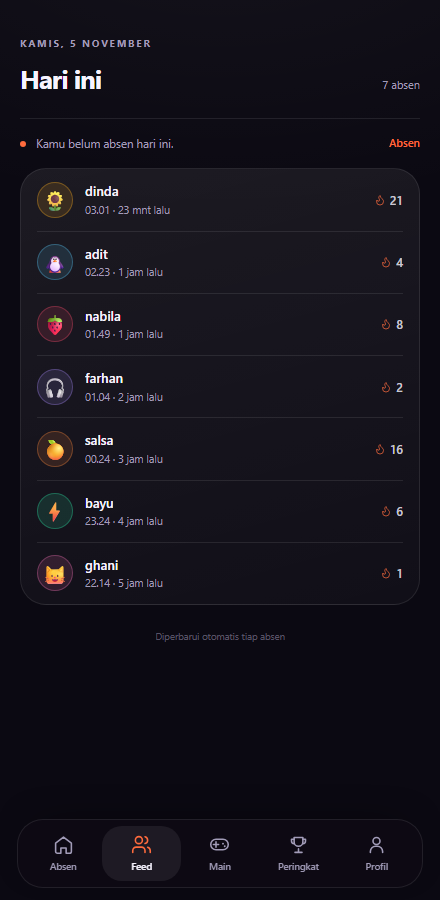
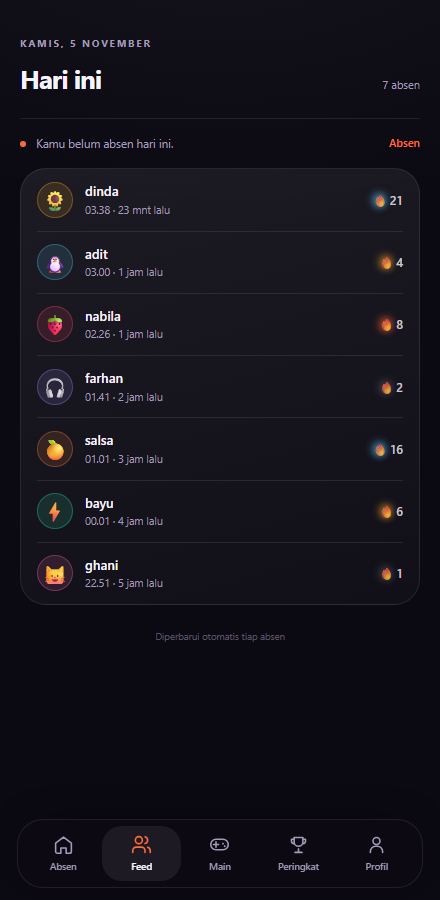
Tingkatan Api Streak

diff --git a/app/page.tsx b/app/page.tsx
@@ -11,12 +11,13 @@ import {
   ArrowUpIcon,
   BellIcon,
   CheckIcon,
-  FlameIcon,
   LockIcon,
   MapPinIcon,
   SnowflakeIcon,
 } from "@/components/Icons";
 import { checkedInToday, todayCheckIns, useStore } from "@/lib/store";
+import { nextFlameTier } from "@/lib/flame";
+import { StreakFlame } from "@/components/StreakFlame";
 import {
   applyCheckIn,
   broadcastBody,
@@ -145,6 +146,7 @@ function Home() {
 
   const streak = state.streak;
   const freezes = effectiveFreezes(streak, today);
+  const nextTier = nextFlameTier(streak.current);
 
   const buttonState: "submitting" | "done" | "locked" | "ready" = submitting
     ? "submitting"
@@ -361,9 +363,7 @@ function Home() {
               </div>
             </div>
             <div className="flex flex-col items-end gap-2">
-              <span className="flicker text-[34px]" aria-hidden="true">
-                🔥
-              </span>
+              <StreakFlame streak={streak.current} size={34} />
               <div className="flex gap-1.5" aria-label="Sisa freeze bulan ini">
                 {[0, 1].map((i) => (
                   <SnowflakeIcon
@@ -375,6 +375,13 @@ function Home() {
                 ))}
               </div>
             </div>
+          </div>
+
+          <div className="mt-4 flex items-center justify-between rounded-[12px] border border-line px-3 py-2">
+            <StreakFlame streak={streak.current} size={14} withLabel />
+            <span className="text-[10px] text-muted">
+              {nextTier ? `naik di ${nextTier.min} hari` : "tingkat tertinggi"}
+            </span>
           </div>
 
           <div className="mt-4 flex items-center justify-between border-t border-white/[0.06] pt-3 text-[11px]">
@@ -459,8 +466,8 @@ function Home() {
           <Confetti count={28} />
           <div className="rise w-full max-w-[330px] rounded-[22px] border border-line bg-panel p-6">
             <div className="flex items-center gap-3">
-              <span className="grid h-9 w-9 place-items-center rounded-full bg-flame/12 text-flame">
-                <FlameIcon className="h-4 w-4" />
+              <span className="grid h-9 w-9 place-items-center rounded-full bg-flame/12">
+                <StreakFlame streak={success.streak} size={16} />
               </span>
               <p className="eyebrow">Absen berhasil</p>
             </div>

diff --git a/components/StreakFlame.tsx b/components/StreakFlame.tsx
@@ -1,0 +1,48 @@
+import { flameTier } from "@/lib/flame";
+
+/**
+ * Api streak — tampil sama seperti di profil, dengan glow sesuai tingkatan.
+ * Semakin tinggi streak, semakin terang warnanya.
+ */
+export function StreakFlame({
+  streak,
+  size = 16,
+  withLabel = false,
+}: {
+  streak: number;
+  size?: number;
+  withLabel?: boolean;
+}) {
+  const tier = flameTier(streak);
+
+  return (
+    <span
+      className="inline-flex items-center gap-1.5"
+      title={tier.name}
+      aria-label={tier.name}
+    >
+      <span
+        className="relative inline-grid place-items-center"
+        style={{ width: size * 1.15, height: size * 1.15 }}
+      >
+        <span
+          aria-hidden="true"
+          className="absolute inset-0 rounded-full"
+          style={{ background: tier.glow, filter: `blur(${Math.max(3, size / 3)}px)` }}
+        />
+        <span
+          className="relative leading-none"
+          style={{ fontSize: size, filter: `drop-shadow(0 0 ${size / 4}px ${tier.glow})` }}
+          aria-hidden="true"
+        >
+          🔥
+        </span>
+      </span>
+      {withLabel && (
+        <span className="text-[10px] font-semibold" style={{ color: tier.color }}>
+          {tier.name}
+        </span>
+      )}
+    </span>
+  );
+}

diff --git a/app/profile/page.tsx b/app/profile/page.tsx
@@ -5,10 +5,10 @@ import { useRouter } from "next/navigation";
 import { Guard } from "@/components/Guard";
 import { BottomNav } from "@/components/BottomNav";
 import { Avatar } from "@/components/Avatar";
+import { StreakFlame } from "@/components/StreakFlame";
 import {
   BellIcon,
   CheckIcon,
-  FlameIcon,
   RotateIcon,
   SnowflakeIcon,
 } from "@/components/Icons";
@@ -161,7 +161,7 @@ function Profile() {
           </h1>
           <p className="text-[11.5px] text-muted">{user.email}</p>
           <div className="mt-4 flex items-center gap-1.5 rounded-full bg-flame/12 px-3 py-1.5 text-[11.5px] font-bold text-flame">
-            <FlameIcon className="h-3.5 w-3.5" />
+            <StreakFlame streak={state.streak.current} size={14} />
             {state.streak.current} hari berturut-turut
           </div>
         </header>
@@ -340,7 +340,7 @@ function Profile() {
         </section>
 
         <p className="mt-8 flex items-center justify-center gap-1.5 text-[9.5px] text-muted/50">
-          <FlameIcon className="h-3 w-3" />
+          <span className="text-[10px]">??</span>
           Ngariung v0.2 · data lokal
         </p>
       </main>

diff --git a/lib/flame.ts b/lib/flame.ts
@@ -1,0 +1,29 @@
+export type FlameTier = {
+  min: number;
+  name: string;
+  color: string;
+  glow: string;
+};
+
+/** Tingkatan api berdasarkan streak harian. */
+export const FLAME_TIERS: FlameTier[] = [
+  { min: 0, name: "Api Kecil", color: "#8A8A93", glow: "rgba(138,138,147,0.30)" },
+  { min: 3, name: "Api Menyala", color: "#FFB43D", glow: "rgba(255,180,61,0.50)" },
+  { min: 7, name: "Api Panas", color: "#FF6B3D", glow: "rgba(255,107,61,0.55)" },
+  { min: 14, name: "Api Biru", color: "#5AC8FA", glow: "rgba(90,200,250,0.55)" },
+  { min: 30, name: "Api Ungu", color: "#A78BFA", glow: "rgba(167,139,250,0.55)" },
+  { min: 60, name: "Api Putih", color: "#F5F5F7", glow: "rgba(245,245,247,0.65)" },
+  { min: 100, name: "Api Dewa", color: "#FFD166", glow: "rgba(255,209,102,0.75)" },
+];
+
+export function flameTier(streak: number): FlameTier {
+  let current = FLAME_TIERS[0];
+  for (const tier of FLAME_TIERS) {
+    if (streak >= tier.min) current = tier;
+  }
+  return current;
+}
+
+export function nextFlameTier(streak: number): FlameTier | null {
+  return FLAME_TIERS.find((t) => t.min > streak) ?? null;
+}

diff --git a/app/leaderboard/page.tsx b/app/leaderboard/page.tsx
@@ -4,7 +4,7 @@ import { useMemo, useState } from "react";
 import { Guard } from "@/components/Guard";
 import { BottomNav } from "@/components/BottomNav";
 import { Avatar } from "@/components/Avatar";
-import { FlameIcon } from "@/components/Icons";
+import { StreakFlame } from "@/components/StreakFlame";
 import { useStore } from "@/lib/store";
 import { todayWIB } from "@/lib/format";
 
@@ -143,9 +143,7 @@ function Leaderboard() {
                 )}
               </p>
               <span className="tabular flex items-center gap-1.5 text-[13px] font-semibold">
-                <FlameIcon
-                  className={`h-3.5 w-3.5 ${i === 0 ? "text-flame" : "text-muted/60"}`}
-                />
+                <StreakFlame streak={value(e)} size={13} />
                 {value(e)}
               </span>
             </div>

diff --git a/components/FeedRow.tsx b/components/FeedRow.tsx
@@ -1,6 +1,6 @@
 import type { CheckIn } from "@/lib/types";
 import { Avatar } from "./Avatar";
-import { FlameIcon } from "./Icons";
+import { StreakFlame } from "./StreakFlame";
 import { relativeTime, timeWIB } from "@/lib/format";
 
 export function FeedRow({ item, isMe }: { item: CheckIn; isMe?: boolean }) {
@@ -26,7 +26,7 @@ export function FeedRow({ item, isMe }: { item: CheckIn; isMe?: boolean }) {
         </p>
       </div>
       <span className="tabular flex items-center gap-1 text-[12px] font-medium text-fg/80">
-        <FlameIcon className="h-3 w-3 text-flame/80" />
+        <StreakFlame streak={item.streak} size={12} />
         {item.streak}
       </span>
     </div>
